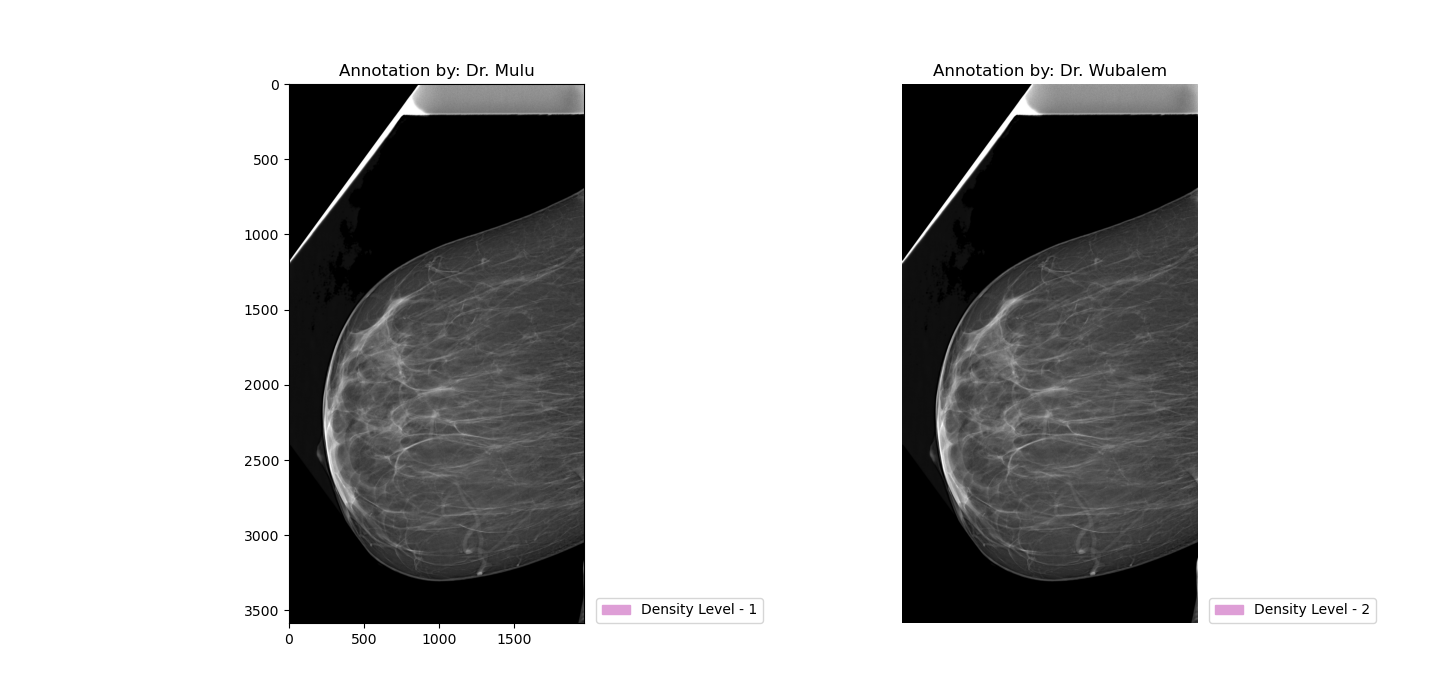
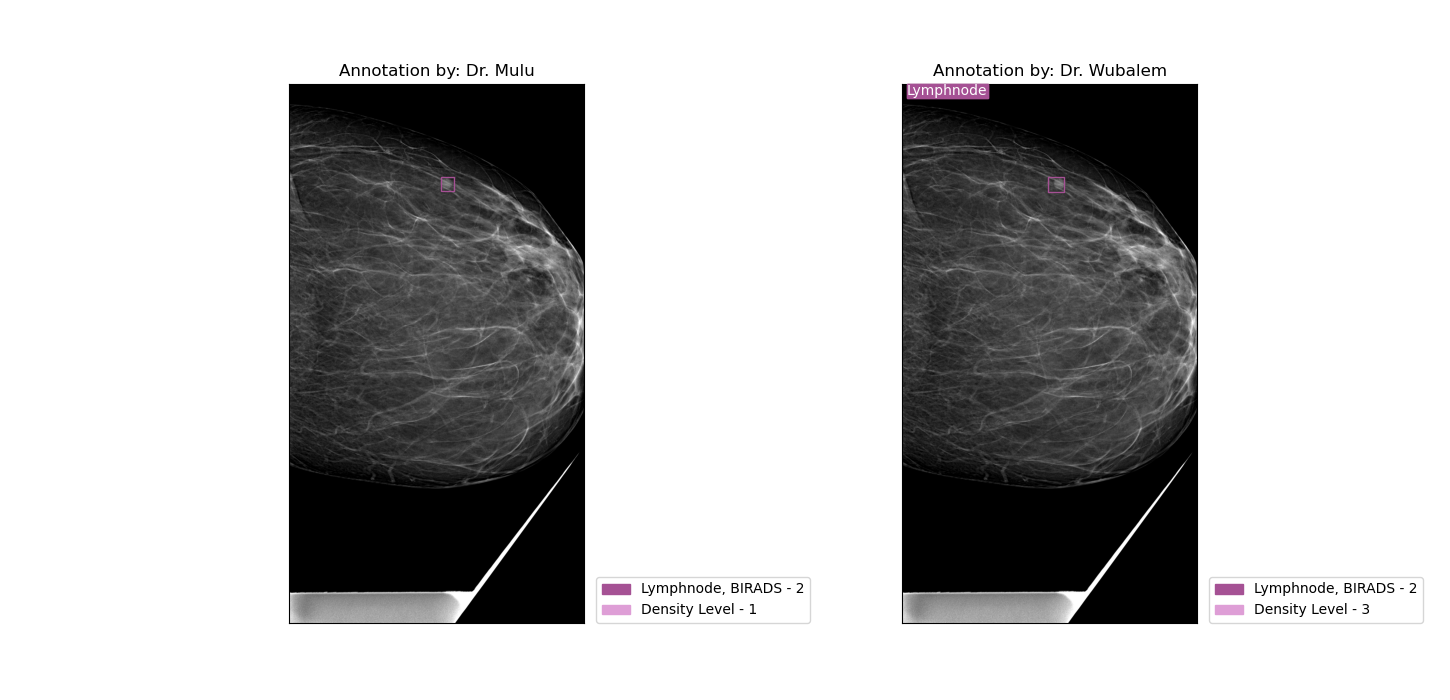
sam

diff --git a/annotator.py b/annotator.py
@@ -21,6 +21,7 @@ import os
 import pydicom
 import sys
 import fnmatch
+import glob
 def key_func(current_frame, key_pressed,params):
     scale, x_shift, y_shift=params
     if(key_pressed=="BackSpace"):
@@ -62,6 +63,8 @@ def key_func(current_frame, key_pressed,params):
         labeltype="BIRADS"
         if(current_frame.current_label==8):
             labeltype="Density"
+        if(current_frame.current_label==9):
+            labeltype="Anatomy"
         current_frame.annotations.append(({'age':current_frame.age,'width':current_frame.width,'height': current_frame.height,'label_name':current_frame.current_label_name,'label':current_frame.current_label,labeltype+'_level':current_frame.birads_level,labeltype+'_level_name':current_frame.birads_level_name,'poly':current_frame.list_of_points}))
         list_of_points2=[]
         for pt in current_frame.list_of_points:
@@ -184,8 +187,9 @@ def savejson():
             #print(list(app.annotations[i]['poly']))
             #print(app.annotations[i])
             #print(label_colors2[app.annotations[i]['label']])
-            poly=np.array(app.annotations[i]['poly'], np.int32)
-            cv2.fillPoly(mask, [poly], tuple(label_colors2[app.annotations[i]['label']]))
+            if(app.annotations[i]['label']<8):
+                poly=np.array(app.annotations[i]['poly'], np.int32)
+                cv2.fillPoly(mask, [poly], tuple(label_colors2[app.annotations[i]['label']]))
         #print(str(app.path+"GT.png"))
         im2write=cv2.cvtColor(mask, cv2.COLOR_RGB2BGR)
         cv2.imwrite(str(app.path+"GT.png"),im2write)
@@ -196,8 +200,9 @@ def savejson():
             #print(list(app.annotations[i]['poly']))
             #print(app2.annotations[i])
             #print(label_colors2[app2.annotations[i]['label']])
-            poly=np.array(app2.annotations[i]['poly'], np.int32)
-            cv2.fillPoly(mask, [poly], tuple(label_colors2[app2.annotations[i]['label']]))
+            if(app2.annotations[i]['label']<8):
+                poly=np.array(app2.annotations[i]['poly'], np.int32)
+                cv2.fillPoly(mask, [poly], tuple(label_colors2[app2.annotations[i]['label']]))
             #cv2.fillPoly(ori_im, [poly], tuple(label_colors2[app2.annotations[i]['label']]))
         #print(str(app.path+"GT.png"))
         im2write=cv2.cvtColor(mask, cv2.COLOR_RGB2BGR)
@@ -309,6 +314,7 @@ def exportcsv():
                         if(annotation["label"]==8):
                             df_loc=pd.DataFrame({'Laterality':[imL],"ViewPosition":[viewP],'size':[str(annotation['width'])+'X'+str(annotation['height'])],'Filename':filename,'patient_id': path[-1],'view':'UN', 'label':annotation['label'], 'label_name':annotation['label_name'], 'Density_level':annotation['Density_level'], 'Density_level_name':annotation['Density_level_name'],'poly':[np.array2string(np.asarray(annotation['poly']), precision=2, separator=',',suppress_small=True)]})
                             df2_loc["Density"]=annotation['Density_level']
+                        
                         else:
                             try:
                                 df_loc=pd.DataFrame({'Laterality':[imL],"ViewPosition":[viewP],'size':[str(annotation['width'])+'X'+str(annotation['height'])],'Filename':filename,'patient_id': path[-1],'view':'UN', 'label':annotation['label'], 'label_name':annotation['label_name'], 'BIRADS_level':annotation['BIRADS_level'], 'BIRADS_level_name':annotation['BIRADS_level_name'],'poly':[np.array2string(np.asarray(annotation['poly']), precision=2, separator=',',suppress_small=True)]})
@@ -416,10 +422,13 @@ filename_r=None
 labels=[0,1,2,3,4,5,6,7,8]
 density_levels_names=["pre-dominantly fatty","Scattered", "Hetrogenously Dense", "Extremely Dense"]
 density_levels=[1,2,3,4]
+anatomy_type_names=["Pectoral Muscle","Breast Region", "Foreign Object", "Text","Other Body Parts"]
+anatomy_types=[1,2,3,4,5]
+
 birads_levels=[2,3,4,5]
 label_names=["Mass","Calcification", "Architectureal Distortion", "Asymmetry", "Ductal Dialtion", "Skin Tichening", "Nipple Retraction", "Lymphnode"]
 birads_level_names=["BI-RADS 2", "BI-RADS 3","BI-RADS 4", "BI-RADS 5"]
-dash_types=[(5,20),(20,20),(30,10,30),(30,5,15,10)]
+dash_types=[(5,20),(20,20),(30,10,30),(30,5,15,10),(10,5,110,10),(10,10,10,10)]
 label_colors=["Red","green","blue", "yellow","light blue","purple","brown","magenta"]
 label_colors2=[(255,0,0),(0,255,0),(0,0,255),(0,255,255),(255,255,0),(204,204,255),(128,0,128),(165,42,42),(255,0,255)]
 
@@ -450,13 +459,8 @@ filemenu.add_command(label="Open for Both", command=selecting_files)
 filemenu.add_command(label="Reset", command=resetAll)
 filemenu.add_separator()
 filemenu.add_command(label="Exit", command=root.quit)
-annotationmenu=tk.Menu(menubar, tearoff=0)
-annotationmenu.add_command(label="Save Annotations", command=savejson)
-annotationmenu.add_command(label="Load Annotations", command=loadjson)
-annotationmenu.add_command(label="Export Annotations to CSV", command=exportcsv)
 
 menubar.add_cascade(label="File", menu=filemenu)
-menubar.add_cascade(label="Annotation", menu=annotationmenu)
 labelmenu = tk.Menu(menubar, tearoff=0)
 label_color="green"
 active_pane=0
@@ -476,6 +480,22 @@ for i in range(len(density_levels)):
 labelmenu.add_cascade(label="Density", underline=0, menu=submenu) 
 
 menubar.add_cascade(label="Change Label", menu=labelmenu)
+
+
+
+anatomical_annotation=tk.Menu(menubar, tearoff=0)
+for i in range(len(anatomy_types)):
+    anatomical_annotation.add_command(label=anatomy_type_names[i], background=label_colors[i], command=partial(change_label,label_colors[i],9,"anatomy",dash_types[i],anatomy_types[i],anatomy_type_names[i]))
+
+
+menubar.add_cascade(label="Breast Anatomy", menu=anatomical_annotation)
+annotationmenu=tk.Menu(menubar, tearoff=0)
+annotationmenu.add_command(label="Save Annotations", command=savejson)
+annotationmenu.add_command(label="Load Annotations", command=loadjson)
+annotationmenu.add_command(label="Compare Annotations", command=loadjson)
+annotationmenu.add_command(label="Export Annotations to CSV", command=exportcsv)
+menubar.add_cascade(label="Annotation", menu=annotationmenu)
+
 helpmenu = tk.Menu(menubar, tearoff=0)
 helpmenu.add_command(label="About...", command=about)
 menubar.add_cascade(label="Help", menu=helpmenu)
@@ -483,4 +503,5 @@ menubar.add_cascade(label="Help", menu=helpmenu)
 root.config(menu=menubar)
 #menubar.pack()
 #print(app2.list_of_points)
+
 root.mainloop()

diff --git a/Zoom_Advanced.py b/Zoom_Advanced.py
@@ -193,12 +193,13 @@ class Zoom_Advanced(ttk.Frame):
         else: return  # zoom only inside image area
         scale = 1.0
         # Respond to Linux (event.num) or Windows (event.delta) wheel event
-        if event.num == 5 or event.delta == -120:  # scroll down
+        #print(event.delta)
+        if event.num == 5 or event.delta < -0:  # scroll down
             i = min(self.width, self.height)
             if int(i * self.imscale) < 30: return  # image is less than 30 pixels
             self.imscale /= self.delta
             scale        /= self.delta
-        if event.num == 4 or event.delta == 120:  # scroll up
+        if event.num == 4 or event.delta > 0:  # scroll up
             i = min(self.canvas.winfo_width(), self.canvas.winfo_height())
             if i < self.imscale: return  # 1 pixel is bigger than the visible area
             self.imscale *= self.delta

diff --git a/annotation_checker.py b/annotation_checker.py
@@ -128,10 +128,11 @@ def plot_image(image, boxes_1,boxes_2,class_labels,name_1,name_2,is_normal_1,is_
     plt.savefig('pltsave.png')
 
 ##declare annotation files
+
 class_names=["Mass","Calcification", "Architectureal Distortion", "Asymmetry", "Ductal Dialtion", "Skin Tichening", "Nipple Retraction", "Lymphnode"]
 birads_level_names=["BI-RADS 2", "BI-RADS 3","BI-RADS 4", "BI-RADS 5"]
 data_directory_1 = "/Volumes/MLData/Paulis_Annotation/mammo__2Mulu"
-data_directory_2 = "/Volumes/MyData/Paulis_annotation2/mammo__2"
+data_directory_2 = "/Volumes/0973111473/Paulis_annotation2/2_mammo__2"
 no_files_1=len(glob.glob1(data_directory_1,"*.dcm"))
 no_files_2= len(glob.glob1(data_directory_2,"*.dcm"))
 if no_files_1 != no_files_2:
